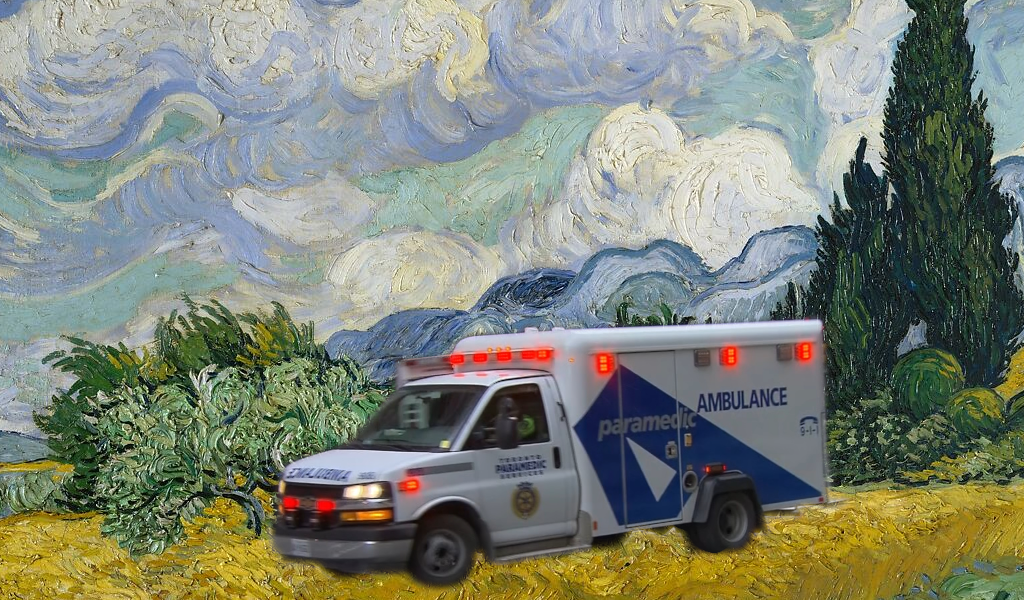
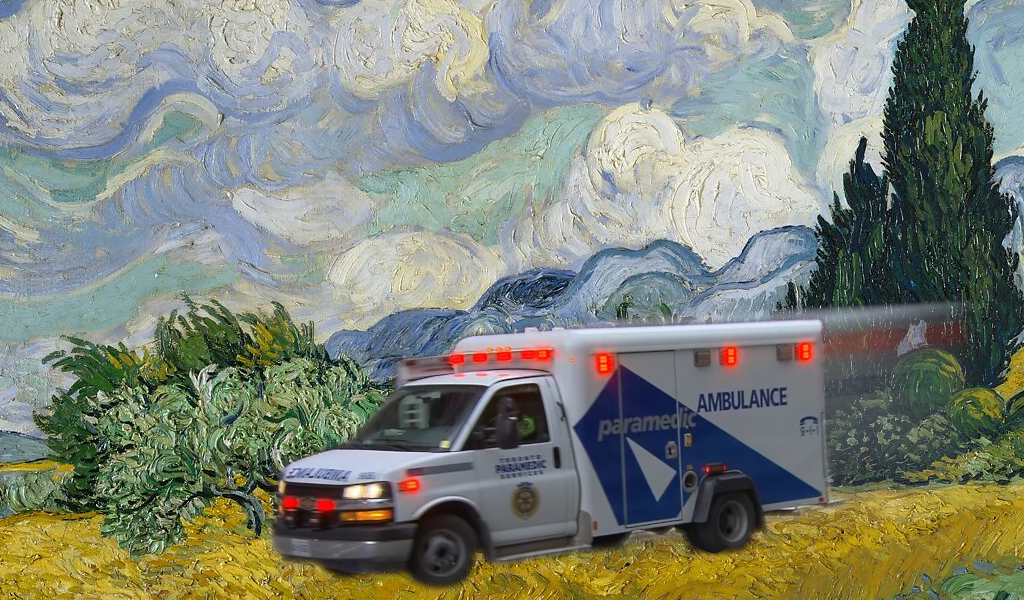
new post

Changed region(s): [[0.5625, 0.48, 0.9688, 0.9], [0.5625, 0.87, 0.6875, 0.96]]

diff --git a/_posts/2024-11-01-Movember Mo Problems.md b/_posts/2024-11-01-Movember Mo Problems.md
@@ -1,14 +1,15 @@
 ---
-title: Moo Deng Tober!
+title: Movember Mo Problems!
 description: Monthly Check-in November 1st 2024
-date: 2024-10-01 07:00:00 -0400
+date: 2024-11-01 07:00:00 -0400
 categories: [Monthly Check-in]
 tags: [charles the bee, pixel fixel, explory story, marketing, game jam, project jig]
-image: 
+image: https://blog.bluepinstudio.com/images/gogh.png
+published : true
 ---
 
 ## Welcome!
-
+Hi peeps. Let's have a look at what goals I had! And then I'll tell you about my second time in my life going to the hospital in an ambulance :O
 
 ## October 2024 Goals Comepleted
   - [x] Complete Ludum Dare 56 game jam
@@ -18,13 +19,24 @@ image:
   - [ ] Put stickers up all over town promoting Pixel Fixel
   - [ ] Promote the heck out Charles, achieving 80 reviews by the end of the month.
   - [x] Prepare the new Charles the Bee content for launch in first week of November on Newgrounds & Steam
- 
+
+  Oof! That doesn't look too good! Howcome you weren't able to even to show off charles? That seems like an easy task, i hear you ask. Well it would've been pretty straight forward but i got pretty sick. No bueno. A few days after flopping on going to that event i was feeling really nauseous and ended up calling 911 to rescue me. I haven't puked that much in years... Anywho, i don't want to go into too much details but i spent roughly 24hrs in the hospital and the same amount recovering at home. 
+
+  > Ick!
+{: .prompt-danger } 
+
+  What about the other goals like ios pixel fixel and putting up stickers? Well the stickers depend on ios launch and apple keeps rejecting me. November will be the month for ios pixel fixel tho! Suuuurely! 
+
+  And lastly, the Charles update? Bah! Other things got priority, November will be the month for charles update tho! Suuurely!
+
+  It's not all bad news, I accomplished a few tasks including my Ludum Dare entry and the following unscheduled tasks:
 
 ## Bonus Tasks Completed in October 2024
   - [x] Begun manufacturing for a new enamel pin to add to the catalog on Etsy
   - [x] Begun work on a secret project (Project Jig) in hopes to publish with a third party
   - [x] Pixel Fixel tournament and launch additional game mode
 
+It's time to put the pedal to the metal and get those pesky lingering tasks done in November. Do tasks or die trying, amirite?
 
 ## Goals for November  2024
   - [ ] Show off Charles the Bee, and Construct 3, at an in-person event as a speaker
@@ -34,11 +46,12 @@ image:
   - [ ] Launch the additional new Charles the Bee content
   - [ ] Sign a contract with a publisher for Project Jig
     
-
+Good luck to us all!
 
 ## Footer & Note to Future Self
+The months get tougher and tougher! Luckily T-Pain released a song that I vibe with heavy. Say less fam.
 
-
+{% include embed/youtube.html id='lsdEY4OW2qI' %}
 
 ## Comments & Reactions
 
